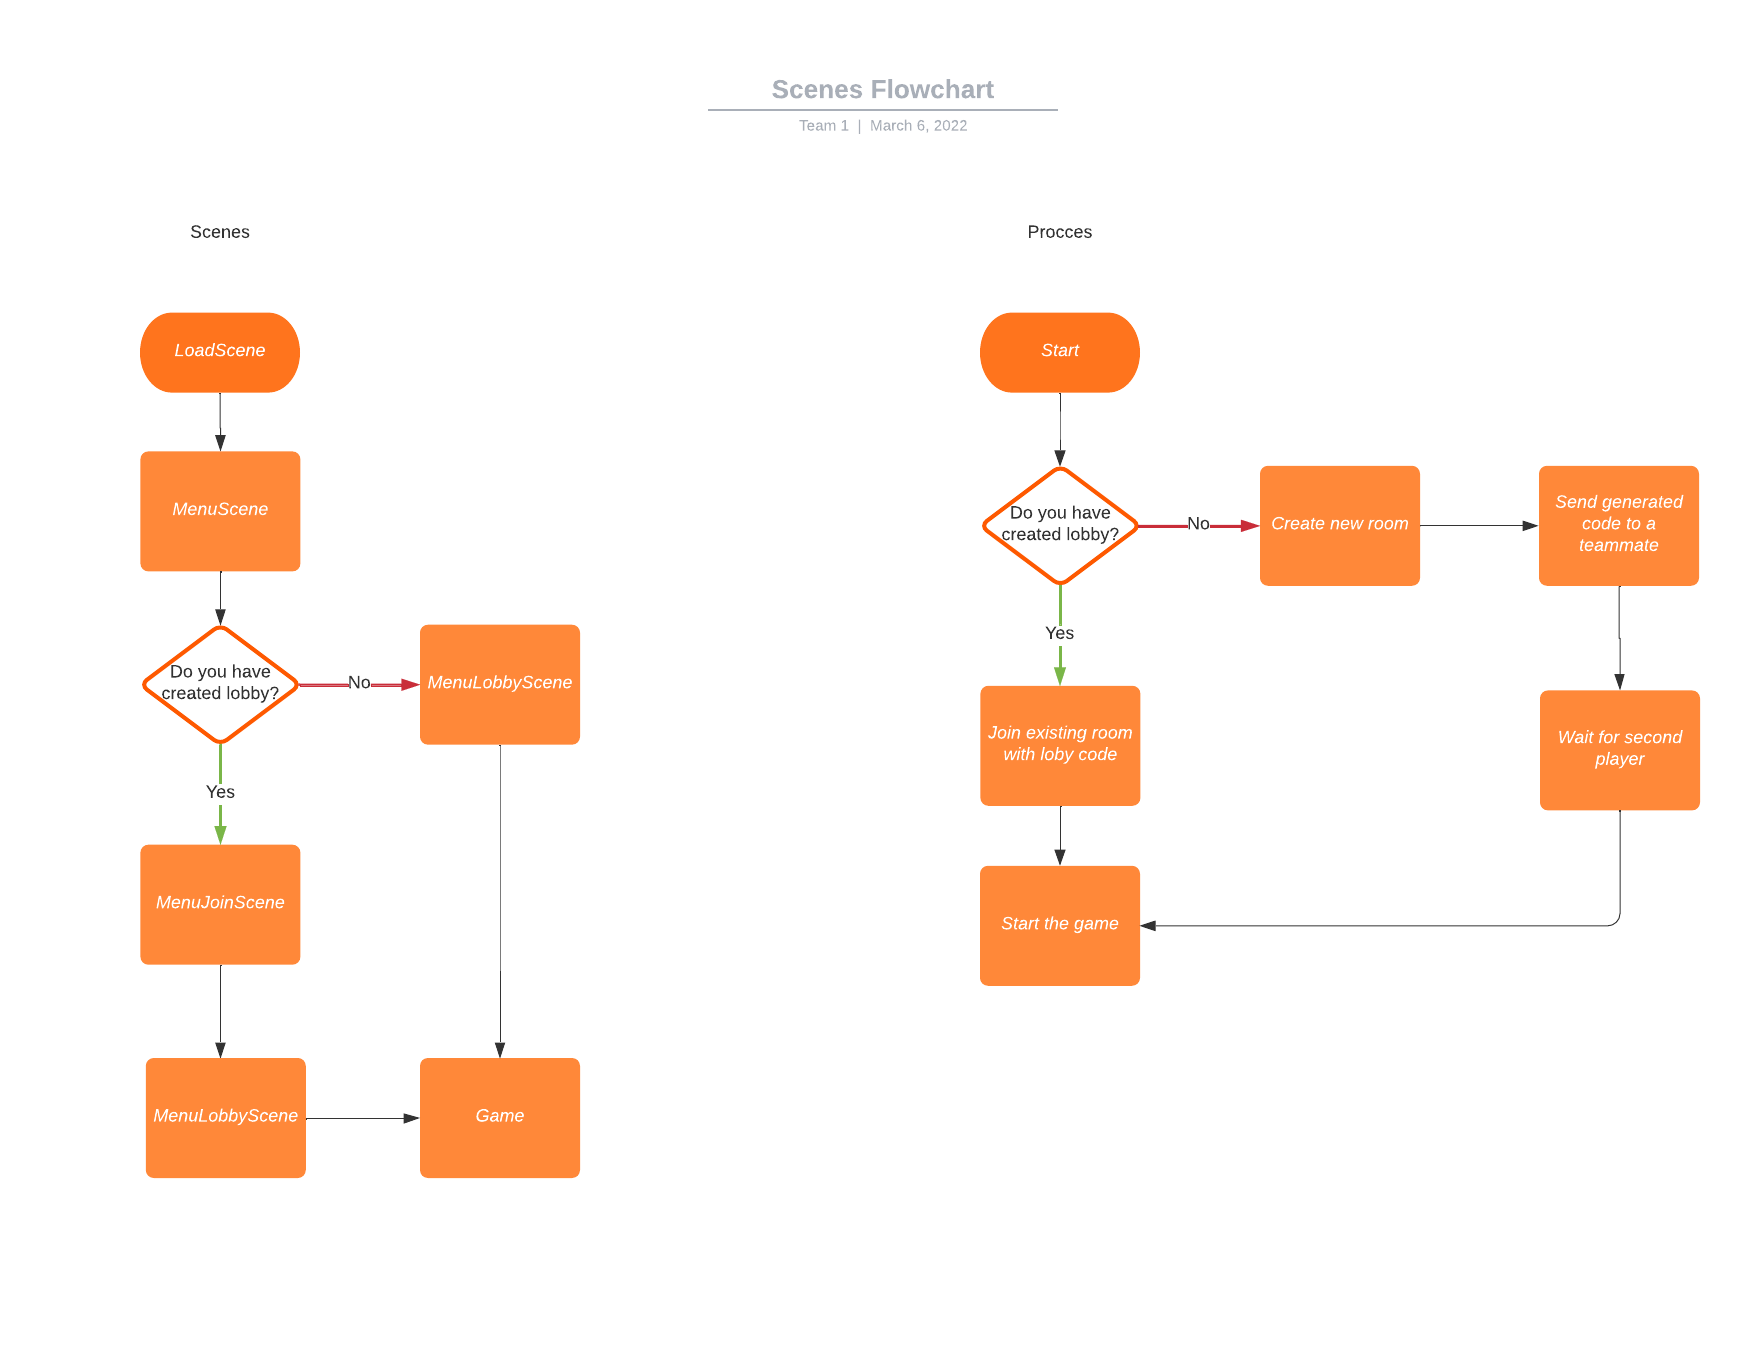
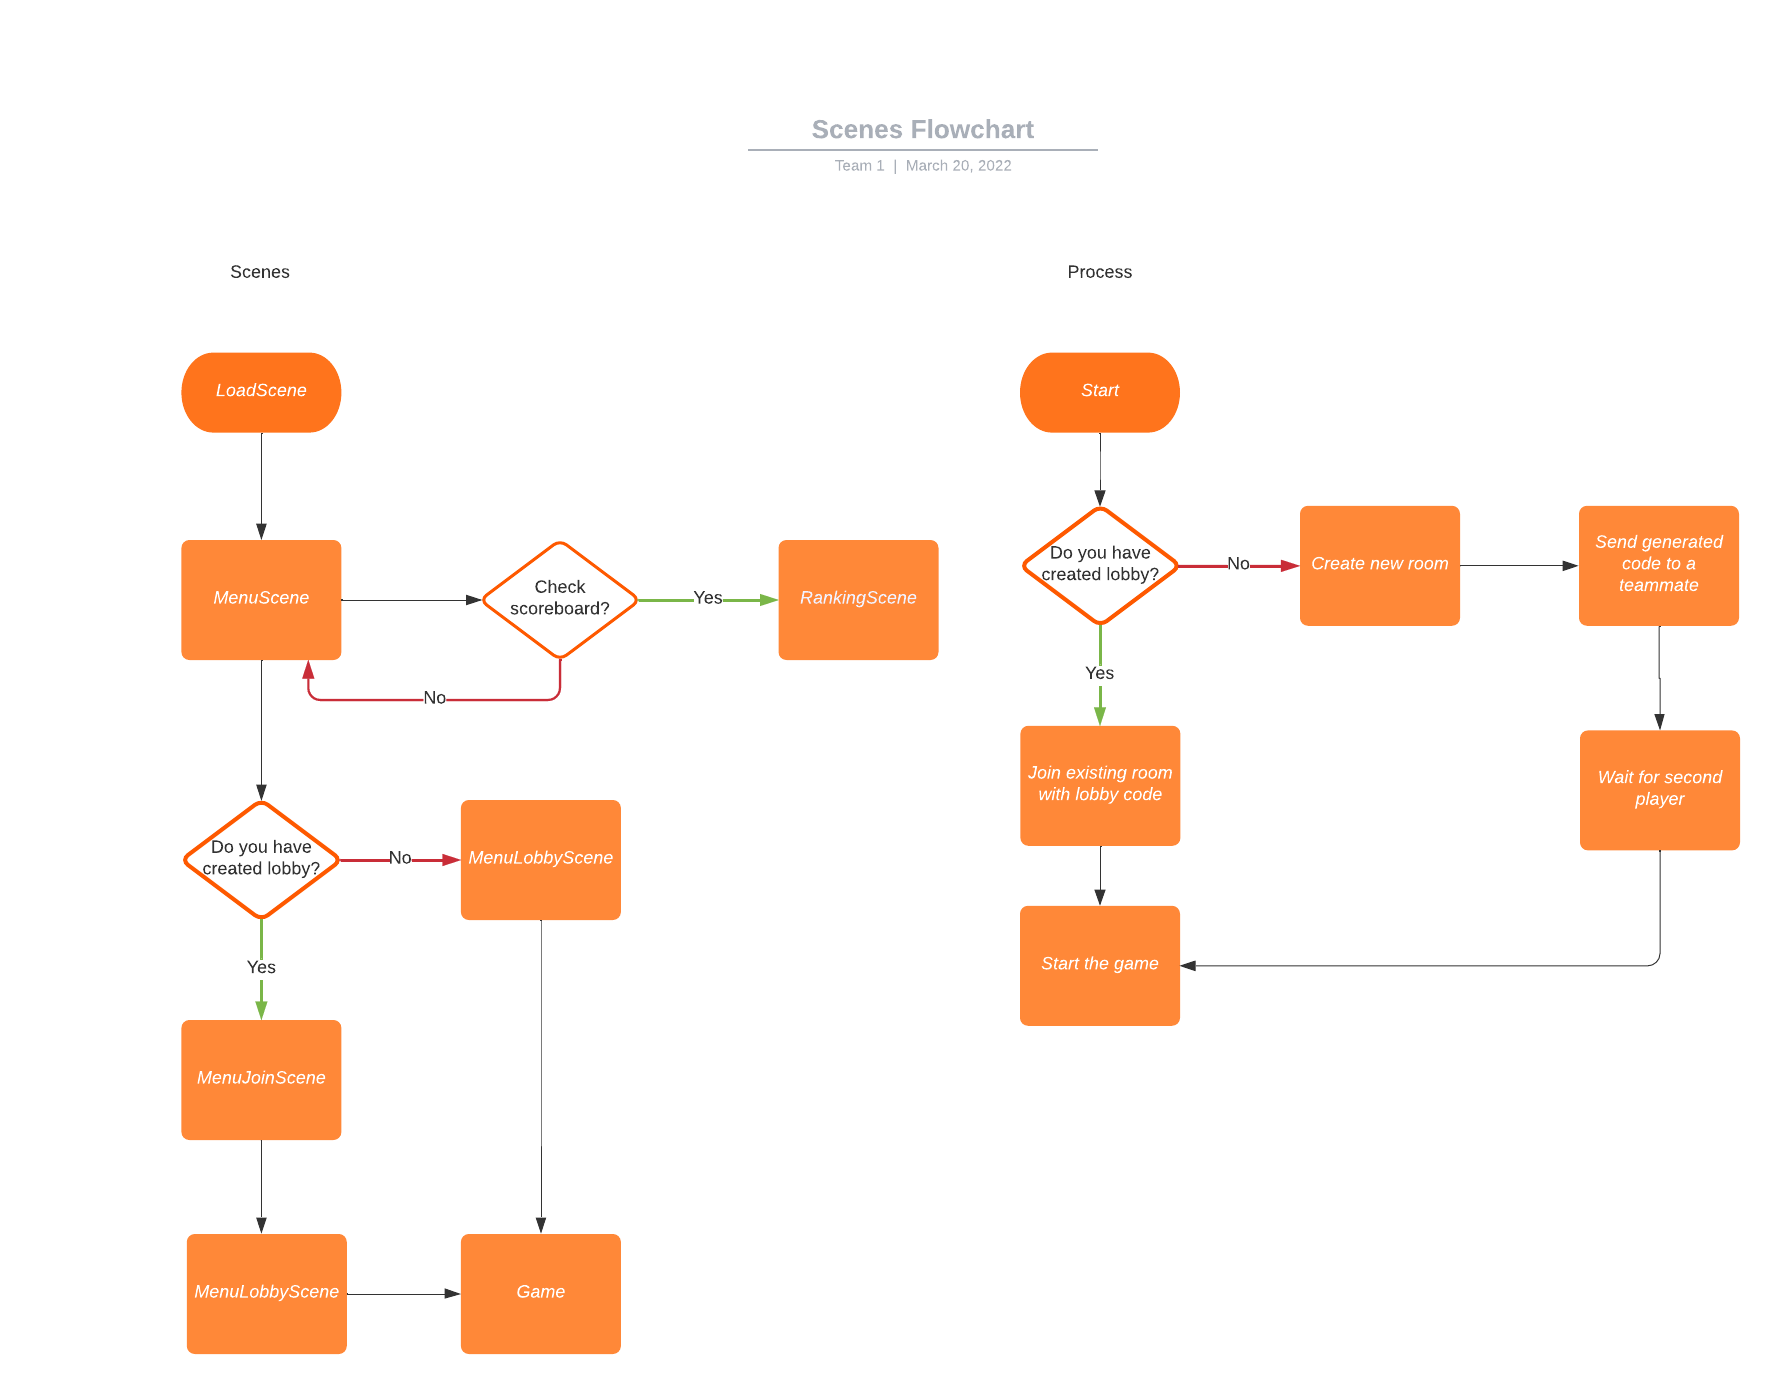
docs(technical): update technical design

diff --git a/docs/technical-design.md b/docs/technical-design.md
@@ -91,4 +91,4 @@ A lobby has to be created to start playing the game, and a second player has to 
 
 #### 5.1.2 Scenes
 
-There are several scenes the game goes through to display the previously mentioned menus. The first scene is LoadScene, and a player sees it only for a few seconds while the game is loading. The next scene is MenuScene, where there are several options for a player. When creating a lobby, the player is directed to the MenuLobbyScene. For joining a lobby, the player is sent to the MenuJoinScene, and after entering the required info, the MenuLobbyScene.
+There are several scenes the game goes through to display the previously mentioned menus. The first scene is LoadScene, and a player sees it only for a few seconds while the game is loading. The next scene is MenuScene, where there are several options for a player. When creating a lobby, the player is directed to the MenuLobbyScene. For joining a lobby, the player is sent to the MenuJoinScene, and after entering the required info, the MenuLobbyScene. For checking the scoreboard of the game, the player is redirected to RankingScene, where shows the 10 highest scoring team. 
